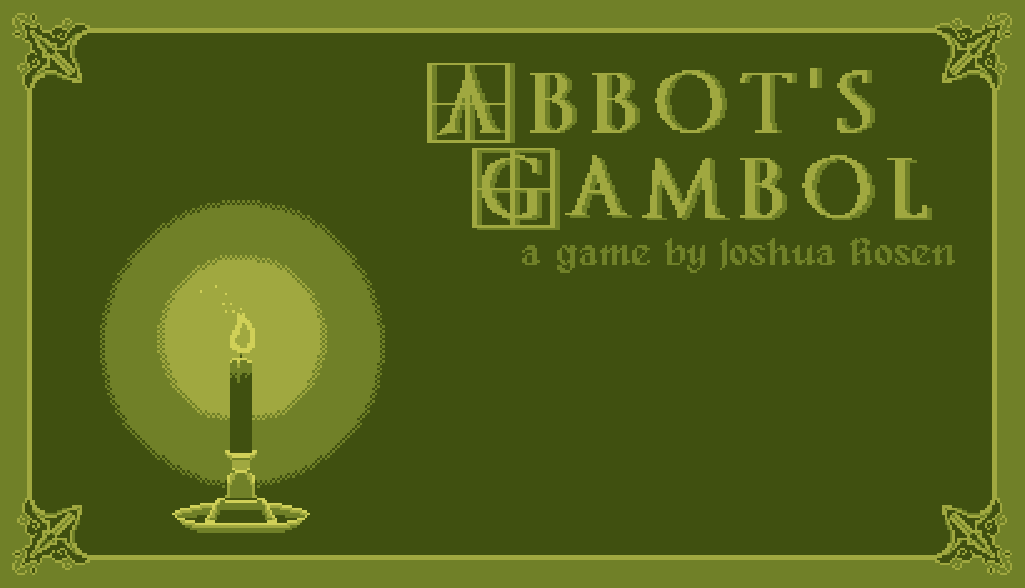
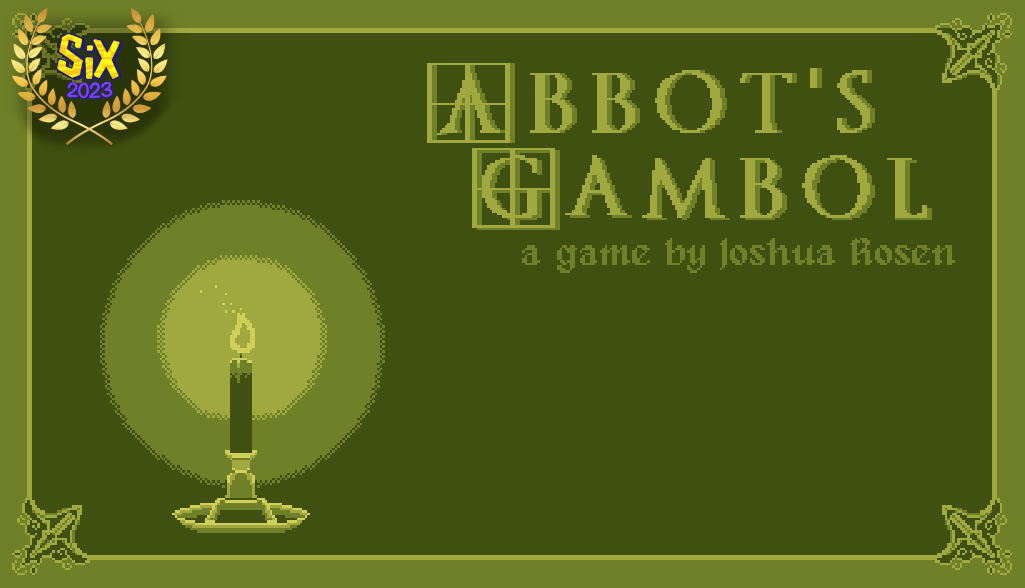
Add info about SIX award to Abbot's Gambol entry.

Changed region(s): [[0.0, 0.0, 0.1873, 0.2449]]

diff --git a/index.html b/index.html
@@ -63,7 +63,7 @@
                 <tr>
                     <td class="game-info">
                         <div class="game-title">Abbot's Gambol</div>
-                        <div class="game-desc">A card game for one or two players.</div>
+                        <div class="game-desc">A card game for one or two players.<br/>Selected for exhibition at <a class="link" href="https://six.seattleindies.org/2023/#abbotsgambol">SIX 2023</a>.</div>
                         <div class="game-role">Solo project.</div>
                         <div class="game-platforms">
                                 <i class="fab fa-html5"></i>

diff --git a/index.css b/index.css
@@ -77,6 +77,10 @@ hr.rounded {
 /* #contact {
     padding-bottom:150px;
 } */
+.link {
+    color: blue;
+    text-decoration: underline;
+}
 #contact h1 {
     margin: min(3vw, 30px) 30px;
     font-size:min(3vw, 38pt);
